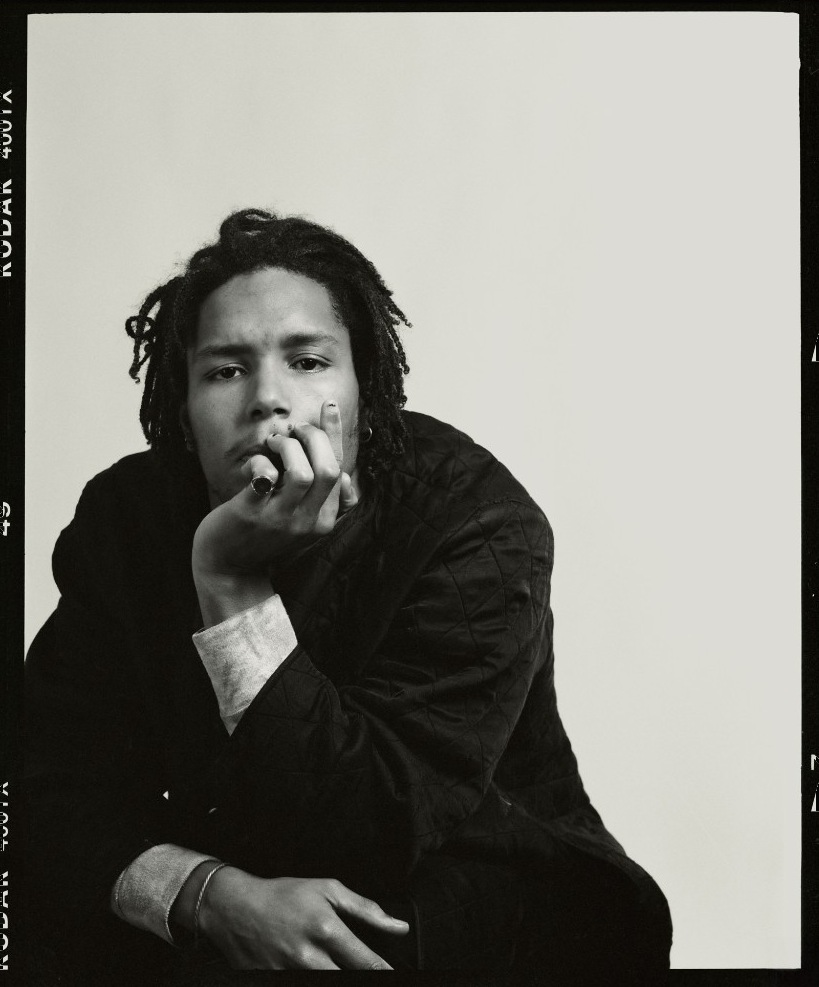
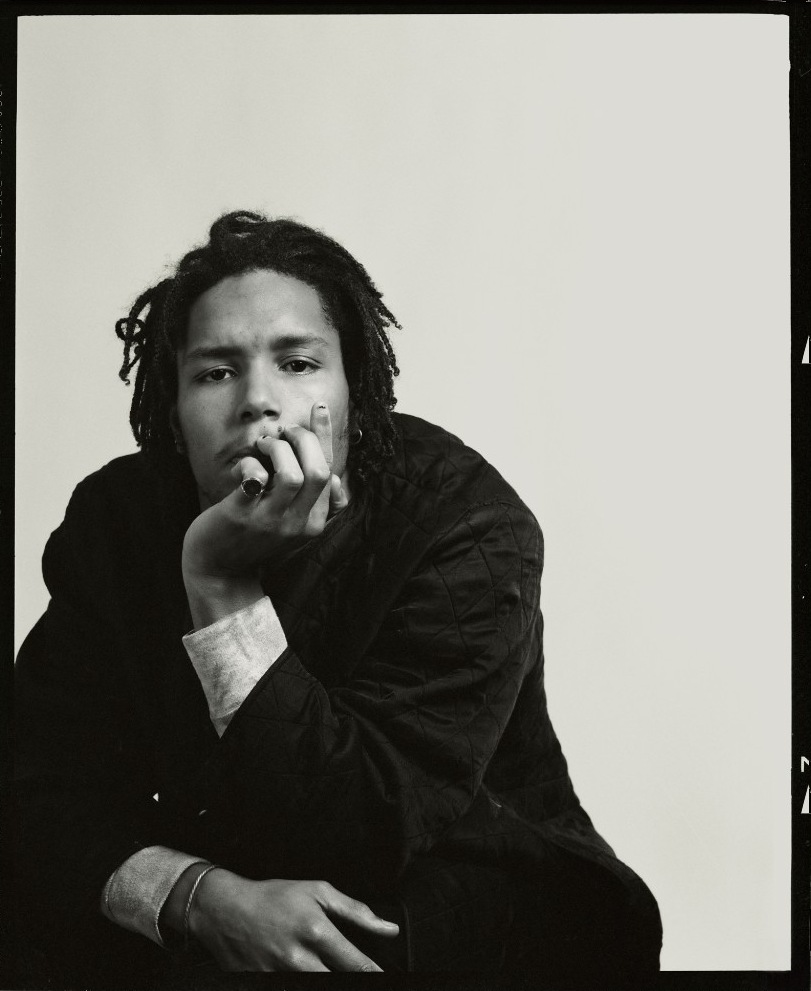
Show Iris’s full film portrait without cover cropping.
Tighten the scan to the Kodak frame and keep contain sizing so Regards no longer chops the sides.

diff --git a/contributors.css b/contributors.css
@@ -158,14 +158,19 @@ body.page--contributors {
 .contributors__shot--contain {
   grid-column: 1 / -1;
   aspect-ratio: auto;
-  max-width: 520px;
+  width: min(100%, 440px);
+  max-width: 440px;
+  margin: 0 auto 0 0;
   background: #0a0908;
+  overflow: visible;
 }
 
 .contributors__shot--contain img {
   width: 100%;
   height: auto;
   object-fit: contain;
+  object-position: center top;
+  display: block;
 }
 
 .contributors__shot--video {

diff --git a/contributors.html b/contributors.html
@@ -29,7 +29,7 @@
       rel="stylesheet"
     />
     <link rel="stylesheet" href="chrome.css?v=11" />
-    <link rel="stylesheet" href="contributors.css?v=2" />
+    <link rel="stylesheet" href="contributors.css?v=3" />
   </head>
   <body class="page--contributors" data-chrome="light">
     <div class="site-chrome" id="site-chrome">

diff --git a/about.html b/about.html
@@ -167,7 +167,7 @@
         <figure class="about__portrait">
           <img
             class="about__portrait-img"
-            src="assets/about/de-rrusie-portrait.jpg?v=1"
+            src="assets/about/de-rrusie-portrait.jpg?v=2"
             alt="De Rrusie"
             width="819"
             height="987"
